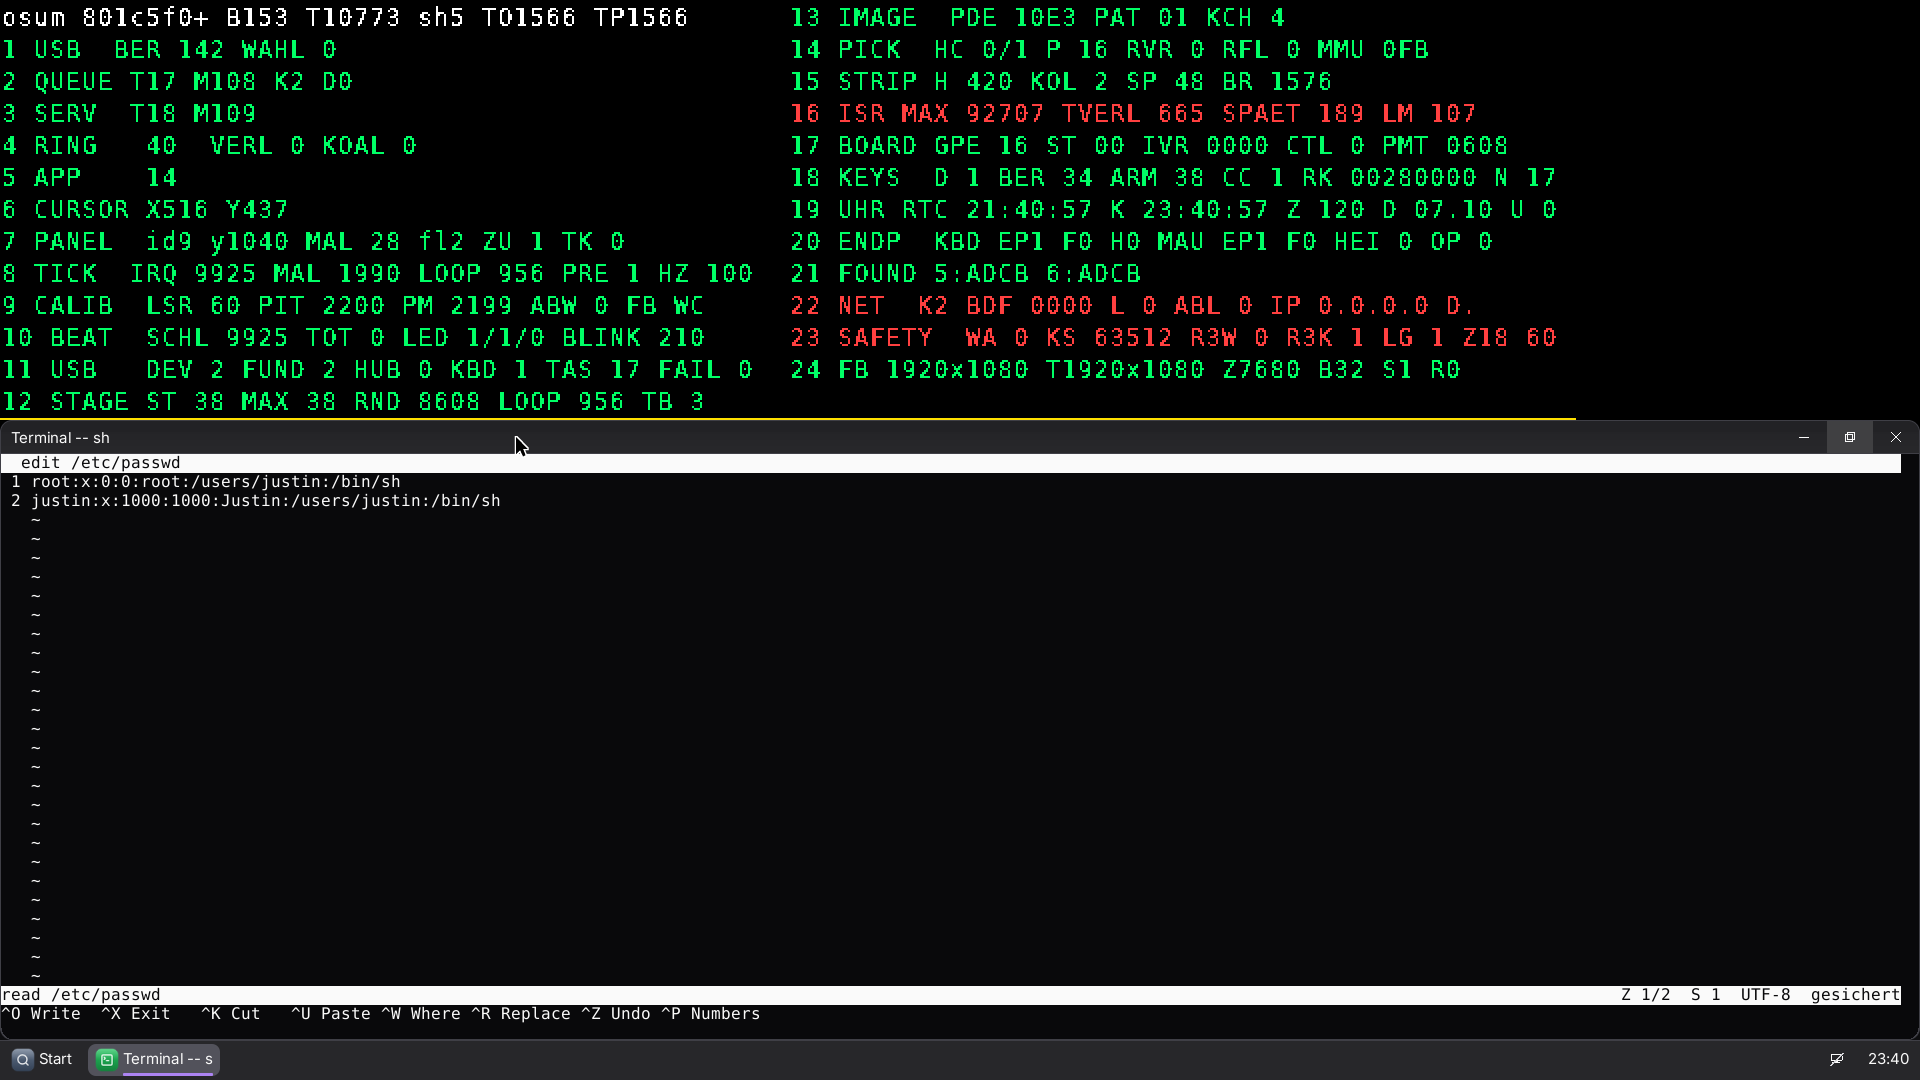
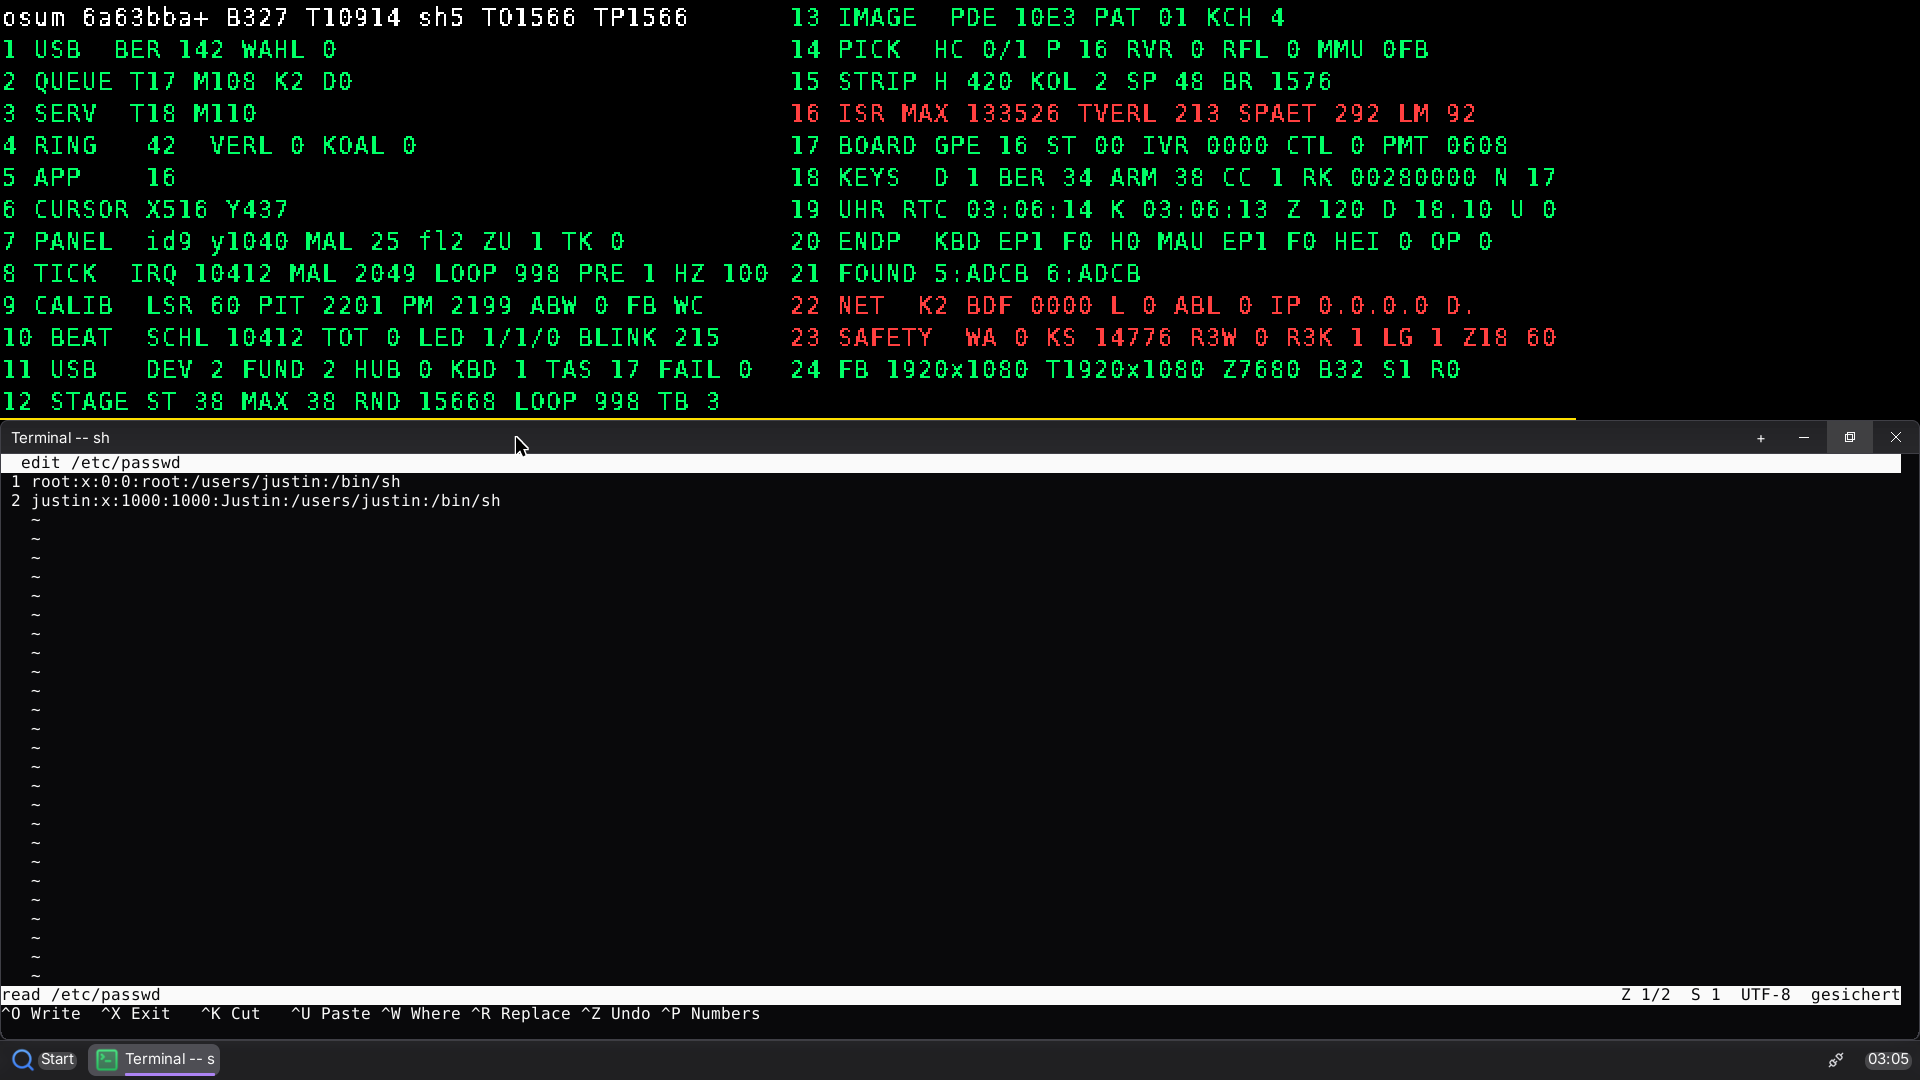
terminal tabs: hang up the tty of a closed terminal window (no task left per closed tab), tabs copy W_SAVE so restore after maximise works in every tab; tools/termtabs/zombie.sh + size.sh gates

diff --git a/tools/termtabs/size.py b/tools/termtabs/size.py
@@ -1,0 +1,63 @@
+#!/usr/bin/env python3
+# SPDX-License-Identifier: GPL-2.0-only
+# tools/termtabs/size.py <outdir> -- reads one tools/termtabs/size.sh run (W-X2: every tab of a group follows a size change)
+import os, re, sys
+
+out = sys.argv[1]
+ser = open(os.path.join(out, 'serial.txt'), errors='replace').read().split('\n')
+ok = bad = 0
+
+
+def chk(cond, msg):
+    global ok, bad
+    if cond:
+        ok += 1
+        print('  OK    ' + msg)
+    else:
+        bad += 1
+        print('  FAIL  ' + msg)
+
+
+ev = []  # ('tt', kind, win) / ('winch', win, cols, rows) in serial order
+for l in ser:
+    m = re.search(r'tt: (new|switch|close) win=(\d+) grp=(\d+) tabs=(\d+)', l)
+    if m:
+        ev.append(('tt', m[1], int(m[2])))
+    # (a serial line can be glued to the output of another task: `rows=` may be cut off, so only the columns are compared)
+    m = re.search(r'kgui: winch win=(\d+) .*cols=(\d+)', l)
+    if m:
+        ev.append(('winch', int(m[1]), int(m[2]), 0))
+news = [e for e in ev if e[0] == 'tt' and e[1] == 'new']
+sws = [e for e in ev if e[0] == 'tt' and e[1] == 'switch']
+chk(len(news) == 1 and len(sws) == 2, 'one new tab, two switches (%d new, %d switch)' % (len(news), len(sws)))
+if len(news) != 1 or len(sws) != 2:
+    print('== result ==')
+    print('  %d ok, %d fail' % (ok, bad + 1))
+    sys.exit(1)
+b = news[0][2]            # the second tab
+a = sws[0][2]             # the first tab (switched to first)
+def after(idx, win):
+    """first winch of `win` after event index idx"""
+    for e in ev[idx + 1:]:
+        if e[0] == 'winch' and e[1] == win:
+            return e
+    return None
+i_new = ev.index(news[0])
+i_s1 = ev.index(sws[0])
+i_s2 = ev.index(sws[1])
+# winch of the shown tab when it was maximised (between new and the first switch): biggest grid there
+big = [e for e in ev[i_new:i_s1] if e[0] == 'winch' and e[1] == b]
+chk(len(big) >= 1, 'maximising tab2 woke its shell (SIGWINCH, %d)' % len(big))
+bigg = (big[-1][2], big[-1][3]) if big else None
+wa = after(i_s1, a)
+chk(wa is not None and bigg is not None and (wa[2], wa[3]) == bigg, 'the other tab got the maximised grid when it came forward (%s vs %s)' % (wa and (wa[2], wa[3]), bigg))
+# restore: winch of tab1 (shown) between first and second switch gives small grid; then tab2 comes back with the same
+small = [e for e in ev[i_s1:i_s2] if e[0] == 'winch' and e[1] == a]
+chk(len(small) >= 2, 'restoring tab1 woke its shell again (%d winch of tab1)' % len(small))
+sg = (small[-1][2], small[-1][3]) if small else None
+chk(sg is not None and bigg is not None and sg[0] < bigg[0], 'the restored grid is smaller than the maximised (%s < %s columns)' % (sg[0] if sg else None, bigg[0] if bigg else None))
+wb = after(i_s2, b)
+chk(wb is not None and sg is not None and (wb[2], wb[3]) == sg, 'tab2 came back with the restored grid (%s vs %s)' % (wb and (wb[2], wb[3]), sg))
+print('== result ==')
+print('  %d ok, %d fail' % (ok, bad))
+sys.exit(1 if bad else 0)

diff --git a/tools/termtabs/zombie.py b/tools/termtabs/zombie.py
@@ -1,0 +1,52 @@
+#!/usr/bin/env python3
+# SPDX-License-Identifier: GPL-2.0-only
+# tools/termtabs/zombie.py <serial.txt> <cycles> -- reads one tools/termtabs/zombie.sh run (W-X2: tabs leave no corpse behind)
+import re, sys
+
+ser = open(sys.argv[1], errors='replace').read().split('\n')
+cyc = int(sys.argv[2])
+ok = bad = 0
+
+
+def chk(cond, msg):
+    global ok, bad
+    if cond:
+        ok += 1
+        print('  OK    ' + msg)
+    else:
+        bad += 1
+        print('  FAIL  ' + msg)
+
+
+new = sum(1 for l in ser if re.search(r'tt: new win=\d+', l))
+cls = sum(1 for l in ser if re.search(r'tt: close win=\d+', l))
+fail = [l for l in ser if 'wm: tab shell started: ' in l and l.rstrip().endswith(': 0')]
+chk(new == cyc, 'every Ctrl+Shift+T made a tab (%d of %d)' % (new, cyc))
+chk(cls == cyc, 'every Ctrl+Shift+W closed a tab (%d of %d)' % (cls, cyc))
+chk(not fail, 'no tab shell failed to start (%d failures)' % len(fail))
+row = re.compile(r'(\d+)\s+(\d+)\s+(ready|run|sleep|wait|zombie|new|stop|poll)\s+(\w+)')
+heads = [i for i, l in enumerate(ser) if 'PID PPID STATE' in l]
+chk(len(heads) >= 2, 'two ps listings (%d)' % len(heads))
+if len(heads) >= 2:
+    lists = []
+    for h in (heads[0], heads[-1]):
+        rows = []
+        for l in ser[h + 1:h + 80]:
+            m = row.search(l)
+            if m:
+                rows.append(m)
+            elif rows and not l.strip().startswith(('wm: termzeile', 'osum$')):
+                break
+        lists.append(rows)
+    a, b = lists
+    za = sum(m.group(3) == 'zombie' for m in a)
+    zb = sum(m.group(3) == 'zombie' for m in b)
+    print('  ps first: %d tasks, %d corpses; ps last: %d tasks, %d corpses' % (len(a), za, len(b), zb))
+    chk(zb <= za, 'no corpse left by %d tab cycles (%d before, %d after)' % (cyc, za, zb))
+    chk(len(b) <= len(a) + 1, 'the task count is back at the start (%d before, %d after)' % (len(a), len(b)))
+    names = lambda r: sorted(m.group(4) for m in r)
+    chk(names(b).count('sh') <= names(a).count('sh') + 1 and names(b).count('term') == names(a).count('term'),
+        'no extra shell or term task (sh %d -> %d, term %d -> %d)' % (names(a).count('sh'), names(b).count('sh'), names(a).count('term'), names(b).count('term')))
+print('== result ==')
+print('  %d ok, %d fail' % (ok, bad))
+sys.exit(1 if bad else 0)
